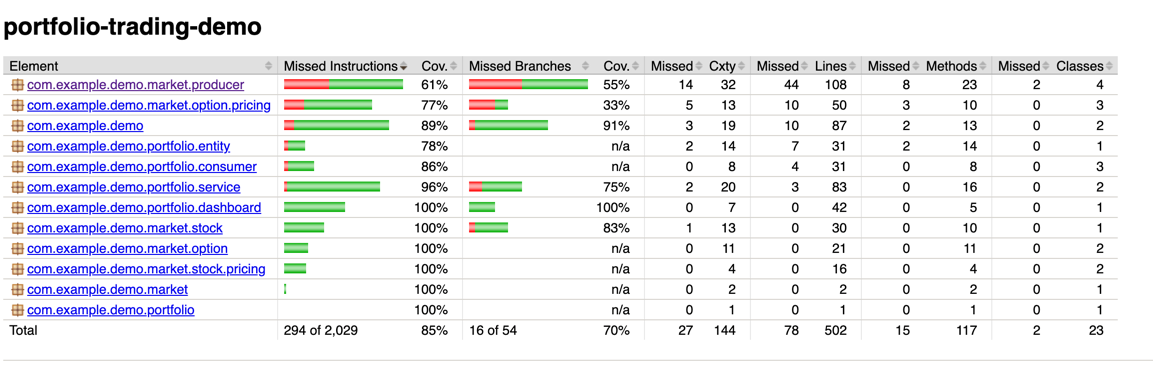
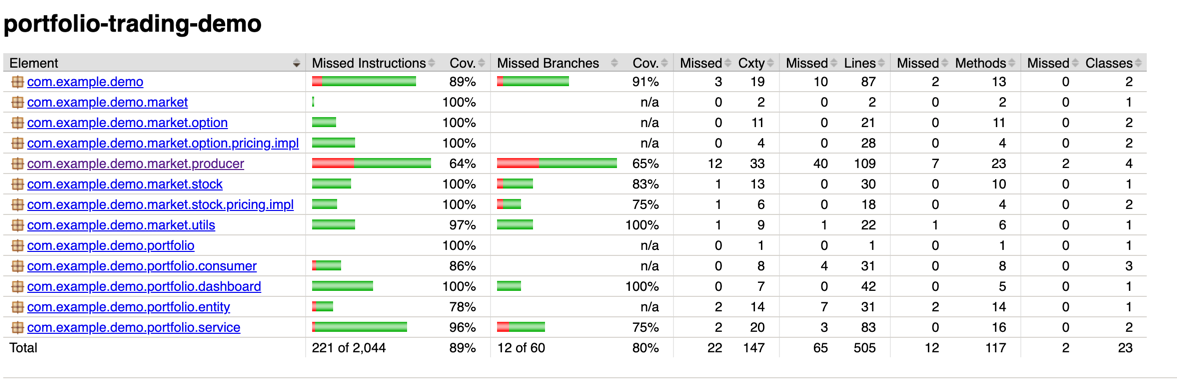
code format

diff --git a/src/main/java/com/example/demo/portfolio/service/PositionService.java b/src/main/java/com/example/demo/portfolio/service/PositionService.java
@@ -23,6 +23,7 @@ import java.util.stream.Collectors;
 import org.slf4j.Logger;
 import org.slf4j.LoggerFactory;
 import org.springframework.context.ApplicationEventPublisher;
+import org.springframework.lang.NonNull;
 import org.springframework.stereotype.Service;
 
 @Service
@@ -51,7 +52,7 @@ public class PositionService {
         this.applicationEventPublisher = applicationEventPublisher;
     }
 
-    public void save(List<PositionEntity> entityList) {
+    public void save(@NonNull List<PositionEntity> entityList) {
         //
         Iterable<PositionEntity> positionEntities = positionRepository.saveAll(entityList);
         //
@@ -90,7 +91,7 @@ public class PositionService {
     /**
      * @param stockQuote
      */
-    public void updateOnPriceChange(Quote stockQuote) {
+    public void updateOnPriceChange(@NonNull Quote stockQuote) {
         String symbol = stockQuote.getSymbol();
         double price = stockQuote.getPrice();
         //
@@ -118,7 +119,7 @@ public class PositionService {
                 .collect(Collectors.toList());
     }
 
-    public double getSumOfNav(Collection<Position> positions) {
+    public double getSumOfNav(@NonNull Collection<Position> positions) {
         return positions.stream().map(Position::getNav).reduce(0.0d, Double::sum);
     }
 
@@ -129,7 +130,7 @@ public class PositionService {
      * @param position
      * @return
      */
-    public Position updateOptionNav(Quote quote, Position position) {
+    public Position updateOptionNav(@NonNull Quote quote, @NonNull Position position) {
         OptionPricing optionPricing = optionManager.getPricing(position.getSymbolType());
         if (null == optionPricing) {
             logger.info("Option Pricing NOT FOUND. {}", position.getSymbolType());
@@ -148,7 +149,7 @@ public class PositionService {
      * @param price
      * @return
      */
-    private Position updateNavOnSymbol(Position position, double price) {
+    private Position updateNavOnSymbol(@NonNull Position position, double price) {
         //
         BigDecimal v1 = BigDecimal.valueOf(price).setScale(2, RoundingMode.DOWN);
         BigDecimal v2 = BigDecimal.valueOf(position.getQty());

diff --git a/src/test/java/com/example/demo/market/pricing/GeometricDiscretePricingTests.java b/src/test/java/com/example/demo/market/pricing/GeometricDiscretePricingTests.java
@@ -3,10 +3,12 @@
 package com.example.demo.market.pricing;
 
 import com.example.demo.market.model.Stock;
-import com.example.demo.market.stock.pricing.GeometricDiscretePricing;
+import com.example.demo.market.stock.pricing.impl.GeometricDiscretePricing;
 import java.time.Duration;
 import java.util.Random;
+import org.junit.jupiter.api.Assertions;
 import org.junit.jupiter.api.Test;
+import org.junit.jupiter.api.function.Executable;
 import org.springframework.boot.test.context.SpringBootTest;
 import org.springframework.test.context.ActiveProfiles;
 
@@ -15,7 +17,7 @@ import org.springframework.test.context.ActiveProfiles;
 class GeometricDiscretePricingTests {
 
     @Test
-    void random_price() {
+    void random_price_success() {
         Random random = new Random();
         long ms = 500 + random.nextInt(1500);
         Stock stock = Stock.newBuilder()
@@ -31,7 +33,32 @@ class GeometricDiscretePricingTests {
     @Test
     void random_10_price() {
         for (int i = 0; i < 100; i++) {
-            random_price();
+            random_price_success();
         }
+    }
+
+    @Test
+    void random_with_zero_time_should_be_current() {
+        long ms = 0;
+        Stock stock = Stock.newBuilder()
+                .setPrice(10.0f)
+                .setDeviation(0.1f)
+                .setExpectedReturn(0.2f)
+                .build();
+        GeometricDiscretePricing pricing = new GeometricDiscretePricing();
+        double price = pricing.price(stock, Duration.ofMillis(ms));
+        Assertions.assertEquals(stock.getPrice(), price);
+    }
+
+    @Test
+    void generate_with_null_arguments() {
+        Stock stock = null;
+        GeometricDiscretePricing pricing = new GeometricDiscretePricing();
+        Assertions.assertThrows(IllegalArgumentException.class, new Executable() {
+            @Override
+            public void execute() throws Throwable {
+                pricing.price(stock, null);
+            }
+        });
     }
 }

diff --git a/src/main/java/com/example/demo/market/stock/StockPool.java b/src/main/java/com/example/demo/market/stock/StockPool.java
@@ -8,6 +8,7 @@ import com.google.common.collect.Sets;
 import java.util.*;
 import org.slf4j.Logger;
 import org.slf4j.LoggerFactory;
+import org.springframework.lang.NonNull;
 import org.springframework.stereotype.Component;
 
 @Component
@@ -19,23 +20,23 @@ public class StockPool {
     private final Map<String, Stock> stockPrice = Maps.newConcurrentMap();
     private final Random random = new Random();
     //
-    public void register(String symbol) {
+    public void register(@NonNull String symbol) {
         if (this.stocksSymbols.contains(symbol)) return;
         this.stocksSymbols.add(symbol);
     }
 
-    public void registerPrice(Stock stock) {
+    public void registerPrice(@NonNull Stock stock) {
         stockPrice.put(stock.getSymbol(), stock);
         register(stock.getSymbol());
     }
 
-    public void updatePrice(String symbol, double price) {
+    public void updatePrice(@NonNull String symbol, double price) {
         Stock stock = stockPrice.get(symbol);
         Stock build = stock.toBuilder().setPrice(price).build();
         stockPrice.put(symbol, build);
     }
 
-    public Stock getLatestPrice(String symbol) {
+    public Stock getLatestPrice(@NonNull String symbol) {
         return stockPrice.get(symbol);
     }
 
@@ -47,7 +48,7 @@ public class StockPool {
         return stocksSymbols.size();
     }
 
-    public boolean contains(String symbol) {
+    public boolean contains(@NonNull String symbol) {
         return stocksSymbols.contains(symbol);
     }
 

diff --git a/src/main/java/com/example/demo/market/producer/QuoteBroker.java b/src/main/java/com/example/demo/market/producer/QuoteBroker.java
@@ -14,6 +14,7 @@ import org.slf4j.LoggerFactory;
 import org.springframework.beans.factory.DisposableBean;
 import org.springframework.beans.factory.InitializingBean;
 import org.springframework.beans.factory.annotation.Value;
+import org.springframework.lang.NonNull;
 import org.springframework.stereotype.Component;
 
 /**
@@ -36,7 +37,7 @@ public class QuoteBroker implements InitializingBean, DisposableBean {
     @Value("${market.broker-dispatch-thread.timeout:10}")
     private int waitTimeout;
 
-    public void start() {
+    private void start() {
         running = true;
         Thread thread = new Thread(new Runnable() {
             @Override
@@ -88,7 +89,8 @@ public class QuoteBroker implements InitializingBean, DisposableBean {
      * put message in a queue, and then will notify consumer immediately
      * @param quoteBatch
      */
-    public void publish(QuoteBatch quoteBatch) {
+    public void publish(@NonNull QuoteBatch quoteBatch) {
+        if (null == quoteBatch) return;
         if (quoteBatch.getItemsList().isEmpty()) {
             return;
         }
@@ -99,7 +101,7 @@ public class QuoteBroker implements InitializingBean, DisposableBean {
      * registration done on startup
      * @param consumer
      */
-    public void add(QuoteConsumer consumer) {
+    public void add(@NonNull QuoteConsumer consumer) {
         consumerList.add(consumer);
     }
 

diff --git a/src/main/java/com/example/demo/market/producer/QuoteProducer.java b/src/main/java/com/example/demo/market/producer/QuoteProducer.java
@@ -17,6 +17,7 @@ import org.slf4j.LoggerFactory;
 import org.springframework.beans.factory.DisposableBean;
 import org.springframework.beans.factory.InitializingBean;
 import org.springframework.beans.factory.annotation.Value;
+import org.springframework.lang.NonNull;
 import org.springframework.stereotype.Component;
 
 @Component
@@ -86,8 +87,8 @@ public class QuoteProducer implements InitializingBean, DisposableBean {
      * @param pocket
      * @param time
      */
-    public void generatePublishPrice(Set<String> pocket, int time) {
-        if (!pocket.isEmpty()) {
+    public void generatePublishPrice(@NonNull Set<String> pocket, int time) {
+        if (null != pocket && !pocket.isEmpty()) {
             try {
                 for (String symbol : pocket) {
                     // generate price
@@ -138,7 +139,7 @@ public class QuoteProducer implements InitializingBean, DisposableBean {
      * @param symbol
      * @param price
      */
-    public void publishNewPrice(String symbol, double price) {
+    public void publishNewPrice(@NonNull String symbol, double price) {
         try {
             wrapNewPrice(price, symbol);
             broker.publish(quoteBatchBuilder.build());

diff --git a/src/test/java/com/example/demo/market/pricing/NormTests.java b/src/test/java/com/example/demo/market/pricing/NormTests.java
@@ -2,7 +2,7 @@
 
 package com.example.demo.market.pricing;
 
-import com.example.demo.market.option.pricing.Norm;
+import com.example.demo.market.utils.Norm;
 import org.junit.jupiter.api.Assertions;
 import org.junit.jupiter.api.Test;
 
@@ -21,6 +21,27 @@ class NormTests {
         double standardDeviation = 2.3;
         double x = (100 - mean) / standardDeviation;
         double probability = Norm.erf(x);
-        System.out.println(probability);
+        Assertions.assertTrue(probability > 0);
+    }
+
+    @Test
+    void cdf() {
+        double mean = 95.6;
+        double standardDeviation = 2.3;
+        double x = (100 - mean) / standardDeviation;
+        double probability = Norm.cdf(x);
+        Assertions.assertTrue(probability > 0);
+    }
+
+    @Test
+    void standard_deviation() {
+        double std = Norm.standardDeviation(new double[] {1.0, 2.0, 3.0});
+        Assertions.assertTrue(std > 0);
+    }
+
+    @Test
+    void calculate_mean() {
+        double std = Norm.mean(new double[] {1.0, 2.0, 3.0});
+        Assertions.assertTrue(std > 0);
     }
 }

diff --git a/src/main/java/com/example/demo/market/stock/pricing/impl/GeometricDiscretePricing.java b/src/main/java/com/example/demo/market/stock/pricing/impl/GeometricDiscretePricing.java
@@ -1,10 +1,12 @@
 /* (C) 2024 */ 
 
-package com.example.demo.market.stock.pricing;
+package com.example.demo.market.stock.pricing.impl;
 
 import com.example.demo.market.model.Stock;
+import com.example.demo.market.stock.pricing.StockPricing;
 import java.time.Duration;
 import java.util.Random;
+import org.springframework.lang.NonNull;
 
 /**
  * Discrete Time Geometric Brownian motion for stock prices
@@ -13,7 +15,10 @@ public class GeometricDiscretePricing implements StockPricing {
 
     Random random = new Random();
 
-    public double price(Stock stock, Duration duration) {
+    public double price(@NonNull Stock stock, @NonNull Duration duration) {
+        if (null == stock || null == duration) {
+            throw new IllegalArgumentException("stock or duration can't be NULL");
+        }
         double expectedReturn = stock.getExpectedReturn();
         double deviation = stock.getDeviation();
         //

diff --git a/src/main/java/com/example/demo/market/option/pricing/impl/PutOptionPricing.java b/src/main/java/com/example/demo/market/option/pricing/impl/PutOptionPricing.java
@@ -1,10 +1,13 @@
 /* (C) 2024 */ 
 
-package com.example.demo.market.option.pricing;
+package com.example.demo.market.option.pricing.impl;
 
 import com.example.demo.market.model.Option;
 import com.example.demo.market.model.Quote;
 import com.example.demo.market.model.Stock;
+import com.example.demo.market.option.pricing.OptionPricing;
+import com.example.demo.market.utils.Norm;
+import org.springframework.lang.NonNull;
 
 public class PutOptionPricing implements OptionPricing {
 
@@ -15,7 +18,7 @@ public class PutOptionPricing implements OptionPricing {
     }
 
     @Override
-    public double price(Stock stock, Quote stockQuote, Option option) {
+    public double price(@NonNull Stock stock, @NonNull Quote stockQuote, @NonNull Option option) {
         double stockPrice = stockQuote.getPrice();
         double strikePrice = option.getStrikePrice();
         double r = this.riskFreeInterestRate;

diff --git a/src/main/java/com/example/demo/market/option/pricing/impl/CallOptionPricing.java b/src/main/java/com/example/demo/market/option/pricing/impl/CallOptionPricing.java
@@ -1,10 +1,13 @@
 /* (C) 2024 */ 
 
-package com.example.demo.market.option.pricing;
+package com.example.demo.market.option.pricing.impl;
 
 import com.example.demo.market.model.Option;
 import com.example.demo.market.model.Quote;
 import com.example.demo.market.model.Stock;
+import com.example.demo.market.option.pricing.OptionPricing;
+import com.example.demo.market.utils.Norm;
+import org.springframework.lang.NonNull;
 
 public class CallOptionPricing implements OptionPricing {
 
@@ -15,7 +18,7 @@ public class CallOptionPricing implements OptionPricing {
     }
 
     @Override
-    public double price(Stock stock, Quote stockQuote, Option option) {
+    public double price(@NonNull Stock stock, @NonNull Quote stockQuote, @NonNull Option option) {
         //
         double stockPrice = stockQuote.getPrice();
         double strikePrice = option.getStrikePrice();

diff --git a/src/main/java/com/example/demo/portfolio/consumer/AbstractQuoteConsumerImpl.java b/src/main/java/com/example/demo/portfolio/consumer/AbstractQuoteConsumerImpl.java
@@ -8,15 +8,16 @@ import org.slf4j.Logger;
 import org.slf4j.LoggerFactory;
 import org.springframework.beans.factory.DisposableBean;
 import org.springframework.beans.factory.InitializingBean;
+import org.springframework.lang.NonNull;
 
 public abstract class AbstractQuoteConsumerImpl implements QuoteConsumer, InitializingBean, DisposableBean {
 
     protected Logger logger = LoggerFactory.getLogger(this.getClass());
 
-    public abstract void handle(ByteString byteString) throws Exception;
+    public abstract void handle(@NonNull ByteString byteString) throws Exception;
 
     @Override
-    public void onEvent(ByteString byteString) {
+    public void onEvent(@NonNull ByteString byteString) {
         try {
             handle(byteString);
         } catch (Exception e) {

diff --git a/src/main/java/com/example/demo/market/stock/pricing/impl/RandomPricing.java b/src/main/java/com/example/demo/market/stock/pricing/impl/RandomPricing.java
@@ -1,16 +1,18 @@
 /* (C) 2024 */ 
 
-package com.example.demo.market.stock.pricing;
+package com.example.demo.market.stock.pricing.impl;
 
 import com.example.demo.market.model.Stock;
+import com.example.demo.market.stock.pricing.StockPricing;
 import java.time.Duration;
 import java.util.Random;
+import org.springframework.lang.NonNull;
 
 public class RandomPricing implements StockPricing {
 
     private final Random random = new Random();
 
-    public double price(Stock stock, Duration duration) {
+    public double price(@NonNull Stock stock, @NonNull Duration duration) {
         double v = stock.getPrice() * (1 - random.nextGaussian());
         return v;
     }

diff --git a/src/main/java/com/example/demo/portfolio/dashboard/ConsoleDashboard.java b/src/main/java/com/example/demo/portfolio/dashboard/ConsoleDashboard.java
@@ -13,6 +13,7 @@ import java.util.concurrent.atomic.AtomicInteger;
 import org.slf4j.Logger;
 import org.slf4j.LoggerFactory;
 import org.springframework.context.event.EventListener;
+import org.springframework.lang.NonNull;
 import org.springframework.stereotype.Component;
 
 @Component
@@ -29,7 +30,7 @@ public class ConsoleDashboard {
     }
 
     @EventListener
-    public synchronized void updateOnStockPriceChange(QuoteBatch quoteBatch) {
+    public synchronized void updateOnStockPriceChange(@NonNull QuoteBatch quoteBatch) {
         logger.debug("receive updates: {}", quoteBatch);
         //
         int seq = counting.incrementAndGet();
